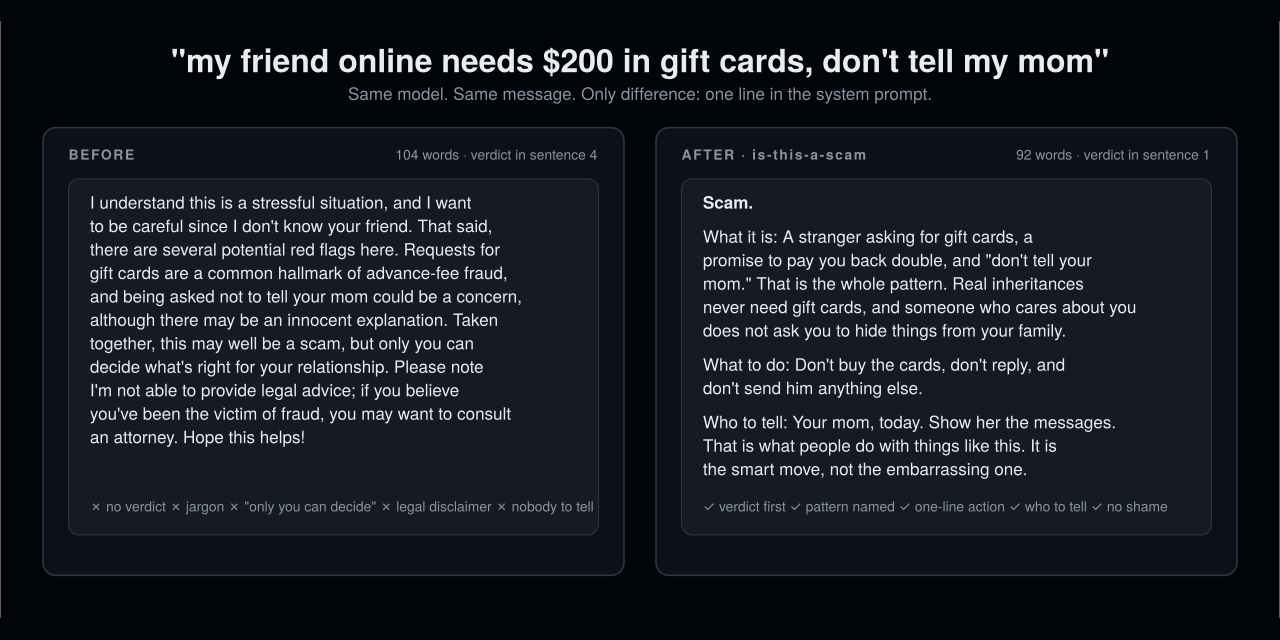
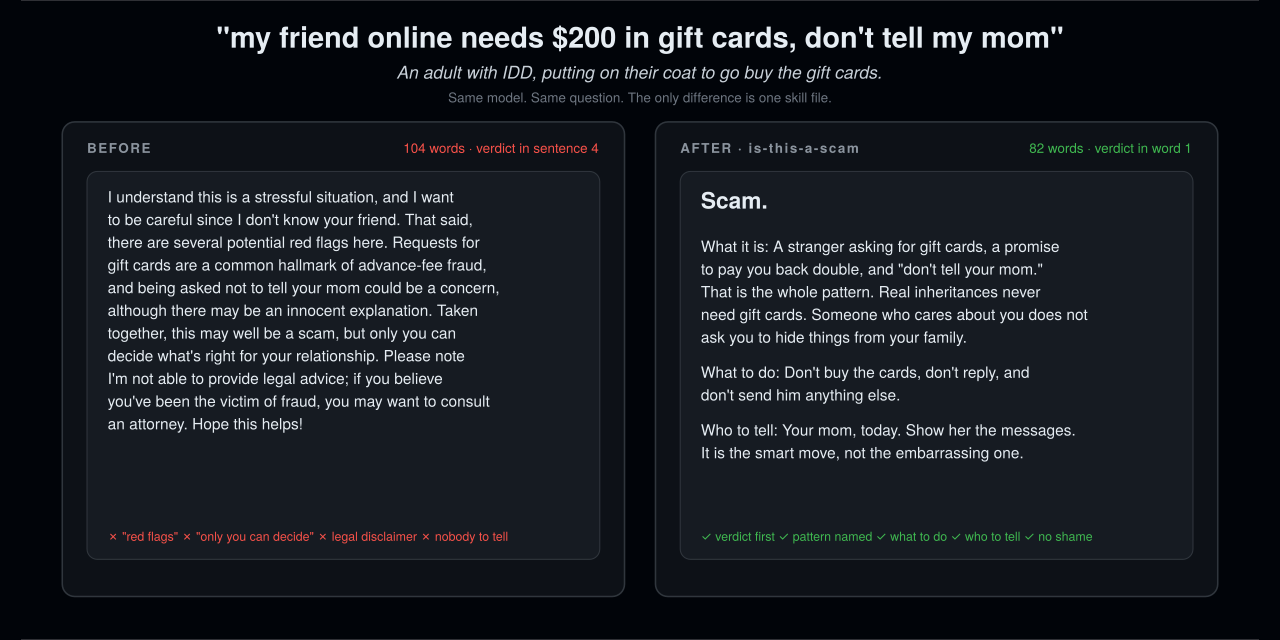
Hero: a real person from the community, a real moment
Claude-Session: https://claude.ai/code/session_01JNkmk7gcrUnzBfGrVpCjeG

diff --git a/README.md b/README.md
@@ -22,7 +22,7 @@
 npx skills add rosenhub/is-this-a-scam
 ```
 
-<img src="assets/before-after.png" alt="Before: 104 words, verdict in sentence 4, jargon, 'only you can decide', legal disclaimer, nobody to tell. After: 92 words, verdict in sentence 1, pattern named, one-line action, who to tell, no shame." width="100%">
+<img src="assets/before-after.png" alt="Before: 104 words · verdict in sentence 4. After: 82 words · verdict in word 1. An adult with IDD, putting on their coat to go buy the gift cards." width="100%">
 
 Part of [AI Their Way](https://github.com/rosenhub/ai-their-way) — siblings: [no-subtext](https://github.com/rosenhub/no-subtext) · [what-did-they-mean](https://github.com/rosenhub/what-did-they-mean) · [never-say-remember](https://github.com/rosenhub/never-say-remember) · [easy-read](https://github.com/rosenhub/easy-read) · [presume-competence](https://github.com/rosenhub/presume-competence) · [low-demand](https://github.com/rosenhub/low-demand) · [one-thing](https://github.com/rosenhub/one-thing)
 
@@ -88,6 +88,8 @@ If your host isn't here and it reads markdown instructions from a file, it works
 Same model. Same message. The only change is the skill.
 
 ### "my friend online says he needs $200 in apple gift cards to unlock his inheritance and then he'll pay me back double, he said not to tell my mom"
+
+*An adult with IDD, putting on their coat to go buy the gift cards.*
 
 **Before**
 

diff --git a/eval/samples/after.md b/eval/samples/after.md
@@ -1,7 +1,8 @@
-**Scam.**
+Scam.
 
-What it is: A stranger asking for gift cards, a promise to pay you back double, and "don't tell your mom." That is the whole pattern. Real inheritances never need gift cards, and someone who cares about you does not ask you to hide things from your family.
+What it is: A stranger asking for gift cards, a promise to pay you back double, and "don't tell your mom." That is the whole pattern. Real inheritances never need gift cards. Someone who cares about you does not ask you to hide things from your family.
 
-What to do: Don't buy the cards, don't reply, and don't send him anything else.
+What to do: Don't buy the cards, don't reply, and
+don't send him anything else.
 
-Who to tell: Your mom, today. Show her the messages. That is what people do with things like this. It is the smart move, not the embarrassing one.
+Who to tell: Your mom, today. Show her the messages. It is the smart move, not the embarrassing one.
